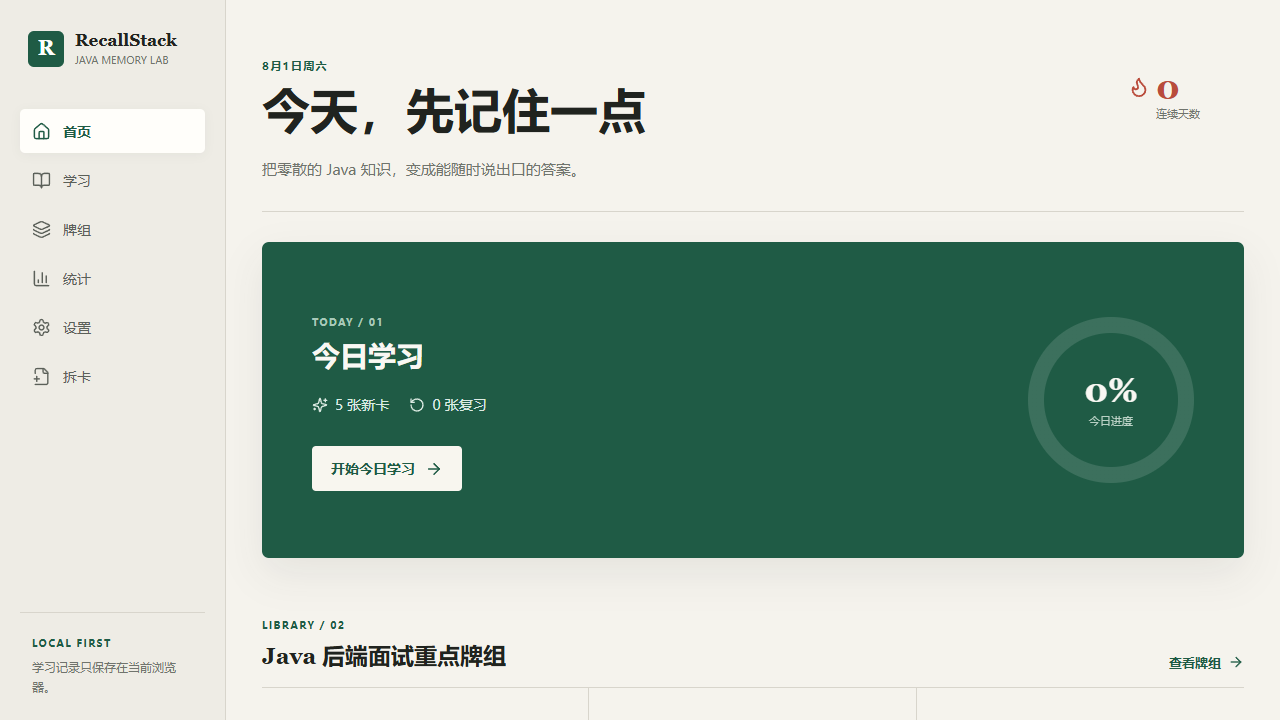
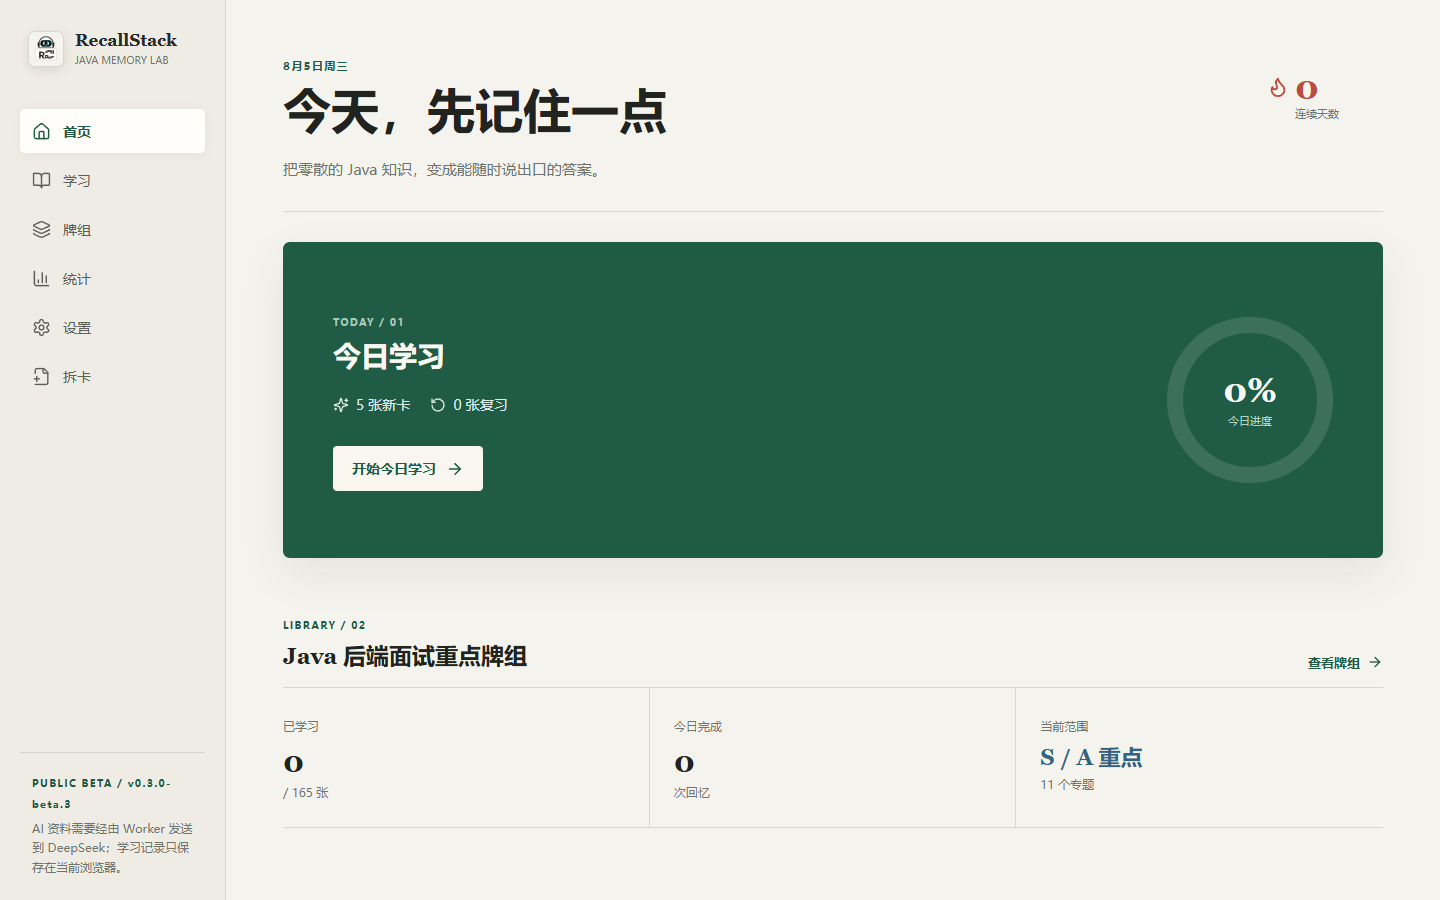
feat: release RecallStack v0.3 beta.3

diff --git a/src/styles.css b/src/styles.css
@@ -14,6 +14,10 @@
   --coral: #b94c3c;
   --amber: #b67a25;
   --blue: #32637f;
+  --charcoal: #252b2b;
+  --cyan: #18b3aa;
+  --cyan-soft: #e1f5f3;
+  --icon-surface: #f4f3ed;
   --shadow: 0 16px 40px rgba(34, 38, 33, 0.08);
 }
 
@@ -29,9 +33,10 @@ a { color: inherit; text-decoration: none; }
 .app-shell { min-height: 100vh; display: grid; grid-template-columns: 226px minmax(0, 1fr); }
 .side-rail { position: sticky; top: 0; height: 100vh; padding: 30px 20px 22px; border-right: 1px solid var(--line); display: flex; flex-direction: column; background: #eeece5; }
 .brand { display: flex; align-items: center; gap: 11px; margin: 0 8px 42px; }
-.brand-mark { width: 36px; height: 36px; display: grid; place-items: center; background: var(--green); color: white; border-radius: 6px; font: 700 21px/1 Georgia, serif; }
+.brand-mark { width: 36px; height: 36px; flex: 0 0 auto; display: grid; place-items: center; background: var(--icon-surface); border: 1px solid rgba(37,43,43,.14); border-radius: 7px; overflow: hidden; box-shadow: 0 3px 10px rgba(37,43,43,.12); }
+.brand-mark img { display: block; width: 100%; height: 100%; object-fit: cover; }
 .brand strong, .brand small { display: block; letter-spacing: 0; }
-.brand strong { font: 700 17px/1.2 Georgia, "Microsoft YaHei", serif; }
+.brand strong { color: var(--charcoal); font: 700 17px/1.2 Georgia, "Microsoft YaHei", serif; }
 .brand small { margin-top: 3px; color: var(--muted); font-size: 10px; text-transform: uppercase; }
 .side-nav { display: grid; gap: 5px; }
 .nav-item { height: 44px; padding: 0 12px; border-radius: 5px; color: #5b6059; display: flex; align-items: center; gap: 12px; font-size: 14px; transition: background 160ms ease, color 160ms ease; }
@@ -60,7 +65,7 @@ a { color: inherit; text-decoration: none; }
 .task-chips span { display: inline-flex; align-items: center; gap: 7px; color: #dcebe3; font-size: 14px; }
 .primary-command { width: fit-content; min-height: 45px; padding: 0 18px; display: inline-flex; align-items: center; justify-content: center; gap: 10px; border: 1px solid transparent; border-radius: 4px; background: #f8f6ef; color: var(--green); font-weight: 800; font-size: 14px; transition: transform 160ms ease, background 160ms ease; }
 .primary-command:hover { transform: translateY(-1px); background: white; }
-.primary-command:focus-visible, button:focus-visible, a:focus-visible, input:focus-visible { outline: 3px solid rgba(50,99,127,.3); outline-offset: 2px; }
+.primary-command:focus-visible, button:focus-visible, a:focus-visible, input:focus-visible, textarea:focus-visible { outline: 3px solid rgba(24,179,170,.35); outline-offset: 2px; }
 .done-message { display: flex; align-items: center; gap: 9px; color: #dcebe3; }
 .progress-dial { --progress: 0deg; width: 166px; aspect-ratio: 1; flex: 0 0 auto; border-radius: 50%; display: grid; place-items: center; background: conic-gradient(#d5a951 var(--progress), rgba(255,255,255,.13) 0); }
 .progress-dial::before { content: ""; grid-area: 1/1; width: 134px; aspect-ratio: 1; border-radius: 50%; background: var(--green); }
@@ -197,13 +202,13 @@ a { color: inherit; text-decoration: none; }
 .mode-switch button:last-child { border-right: 0; }
 .mode-switch button.active { background: var(--ink); color: var(--surface); }
 .mode-switch button:disabled { color: #a7aaa4; background: #ebe9e2; cursor: not-allowed; }
-.ai-consent-box { margin-top: 18px; padding: 18px 20px; border-left: 3px solid var(--blue); background: #eaf0f3; }
-.ai-consent-box strong { color: var(--blue); font-size: 13px; }
-.ai-consent-box p { margin: 7px 0 12px; color: #52656e; font-size: 12px; line-height: 1.7; }
+.ai-consent-box { margin-top: 18px; padding: 18px 20px; border-left: 3px solid var(--cyan); background: var(--cyan-soft); }
+.ai-consent-box strong { color: var(--charcoal); font-size: 13px; }
+.ai-consent-box p { margin: 7px 0 12px; color: #426563; font-size: 12px; line-height: 1.7; }
 .ai-consent-box .ai-limit-note { margin-top: 0; color: var(--amber); }
 .ai-consent-box label { display: flex; align-items: flex-start; gap: 9px; color: var(--ink); font-size: 12px; font-weight: 700; line-height: 1.5; cursor: pointer; }
 .ai-consent-box input { width: 16px; height: 16px; margin: 1px 0 0; accent-color: var(--green); }
-.provider-note { margin: 15px 0 0; color: var(--amber); font-size: 12px; font-weight: 700; }
+.provider-note { margin: 15px 0 0; color: var(--charcoal); font-size: 12px; font-weight: 700; }
 .material-input-label { display: block; margin: 24px 0 9px; color: var(--muted); font-size: 12px; font-weight: 700; }
 .import-composer > textarea { width: 100%; min-height: 230px; padding: 20px; resize: vertical; border: 1px solid var(--line); border-radius: 5px; background: var(--surface); color: var(--ink); line-height: 1.75; outline: none; }
 .import-composer > textarea:focus, .draft-card input:focus, .draft-card textarea:focus { border-color: var(--green); box-shadow: 0 0 0 3px rgba(31, 91, 69, .1); }
@@ -212,7 +217,7 @@ a { color: inherit; text-decoration: none; }
 .import-actions .save-button { margin-left: auto; }
 .import-actions .cancel-button { margin-left: auto; border-color: var(--coral); color: var(--coral); }
 .file-name { max-width: 220px; overflow: hidden; color: var(--muted); font-size: 11px; text-overflow: ellipsis; white-space: nowrap; }
-.generation-progress { margin: 0 0 16px; padding: 17px 18px; border: 1px solid var(--line); background: var(--surface); }
+.generation-progress { margin: 0 0 16px; padding: 17px 18px; border: 1px solid rgba(24,179,170,.38); background: var(--surface); }
 .progress-line { display: flex; justify-content: space-between; gap: 14px; color: var(--muted); font-size: 11px; }
 .generation-progress progress { width: 100%; height: 7px; margin: 12px 0 7px; accent-color: var(--green); }
 .current-chunk { display: block; color: var(--green); font-size: 11px; font-weight: 700; }

diff --git a/src/app/App.test.tsx b/src/app/App.test.tsx
@@ -46,6 +46,12 @@ describe('RecallStack app', () => {
     expect(await screen.findByText('5 张新卡')).toBeInTheDocument()
   })
 
+  it('shows the accessible RecallStack brand mark', async () => {
+    renderApp()
+
+    expect(await screen.findByRole('img', { name: 'RecallStack' })).toHaveAttribute('src', './recallstack-brand.svg')
+  })
+
   it('reveals the answer before accepting a rating', async () => {
     const user = userEvent.setup()
     renderApp('/study')

diff --git a/src/components/AppShell.tsx b/src/components/AppShell.tsx
@@ -16,7 +16,7 @@ export function AppShell() {
     <div className="app-shell">
       <aside className="side-rail">
         <NavLink className="brand" to="/" aria-label="RecallStack 首页">
-          <span className="brand-mark">R</span>
+          <span className="brand-mark"><img src="./recallstack-brand.svg" alt="RecallStack" /></span>
           <span>
             <strong>RecallStack</strong>
             <small>Java memory lab</small>

diff --git a/index.html b/index.html
@@ -5,6 +5,7 @@
     <meta name="viewport" content="width=device-width, initial-scale=1.0" />
     <meta name="theme-color" content="#f5f3ed" />
     <meta name="description" content="像背单词一样复习 Java 八股知识" />
+    <link rel="icon" type="image/svg+xml" href="./recallstack-brand.svg" />
     <link rel="icon" type="image/svg+xml" href="./icon.svg" />
     <title>RecallStack</title>
   </head>

diff --git a/vite.config.ts b/vite.config.ts
@@ -17,6 +17,7 @@ export default defineConfig({
         display: 'standalone',
         start_url: '.',
         icons: [
+          { src: 'recallstack-brand.svg', sizes: '192x192', type: 'image/svg+xml', purpose: 'any maskable' },
           { src: 'icon.svg', sizes: 'any', type: 'image/svg+xml' }
         ]
       }

diff --git a/src/app/release.ts b/src/app/release.ts
@@ -1,4 +1,4 @@
-export const APP_VERSION = 'v0.3.0-beta.2'
+export const APP_VERSION = 'v0.3.0-beta.3'
 export const AI_MODEL = 'deepseek-v4-flash'
 export const AI_MODEL_LABEL = 'DeepSeek V4 Flash'
 export const AI_CONSENT_VERSION = 'v0.3-deepseek'

diff --git a/docs/superpowers/plans/2026-08-05-brand-unification.md b/docs/superpowers/plans/2026-08-05-brand-unification.md
@@ -1,0 +1,67 @@
+# RecallStack Brand Unification Implementation Plan
+
+> **For agentic workers:** REQUIRED SUB-SKILL: Use superpowers:executing-plans to implement this plan task-by-task with review checkpoints.
+
+**Goal:** Apply the selected calm-study visual direction to RecallStack without changing product behavior.
+
+**Architecture:** Keep the existing React and CSS structure. Add one repository-local icon asset, update the existing design tokens and brand shell, then validate the generated manifest and responsive layout through the existing test and build commands.
+
+**Tech Stack:** React, TypeScript, Vite, vite-plugin-pwa, CSS custom properties, Vitest, Playwright.
+
+---
+
+### Task 1: Add the supplied brand asset
+
+**Files:**
+- Create: `public/recallstack-brand.svg` as a repository-local, deterministic reproduction of the user-supplied optimized icon.
+- Keep: `public/icon.svg` as the SVG fallback until the raster asset is verified in the build.
+
+- [ ] Verify the SVG is present and parses as an XML image resource with `Get-Item public/recallstack-brand.svg`.
+
+### Task 2: Update brand metadata and shell markup
+
+**Files:**
+- Modify: `src/components/AppShell.tsx`
+- Modify: `index.html`
+- Modify: `vite.config.ts`
+
+- [ ] Replace the text-only `.brand-mark` content with an image using `src="./recallstack-brand.svg"`, `alt="RecallStack"`, and a stable 36px box.
+- [ ] Keep the existing brand name and navigation labels unchanged.
+- [ ] Add the new SVG favicon before the existing SVG fallback in `index.html`.
+- [ ] Add a 192px SVG manifest icon while retaining the existing SVG `any` icon fallback.
+- [ ] Set the browser theme color to the existing paper token so installable surfaces remain consistent.
+
+### Task 3: Extend the existing design tokens
+
+**Files:**
+- Modify: `src/styles.css`
+
+- [ ] Add tokens for `--charcoal`, `--cyan`, `--cyan-soft`, and `--icon-surface` next to the current palette.
+- [ ] Style `.brand-mark` as an image container with `object-fit: cover`, no text fallback dependency, and a small radius matching the supplied icon tile.
+- [ ] Add `.ai-consent-box`, `.provider-note`, `.generation-progress`, and visible focus states to use cyan only for AI/brand emphasis where existing selectors currently use blue or generic green.
+- [ ] Preserve green as the primary command, active navigation, progress, and learned-state color.
+- [ ] Preserve current mobile bottom navigation height and safe-area padding while increasing active-state contrast with the new charcoal/cyan roles.
+- [ ] Add a `@media (max-width: 560px)` rule if needed so the 36px mark and RecallStack text do not clip in the compact shell.
+
+### Task 4: Add focused regression coverage
+
+**Files:**
+- Modify: `src/app/App.test.tsx`
+- Modify: `src/components/AppShell.tsx` only if a testable accessible label is needed.
+
+- [ ] Add a test that renders the shell and asserts the brand image has `alt="RecallStack"` and the expected `src`.
+- [ ] Add a test that asserts the primary study action keeps its existing class and navigation target.
+- [ ] Run the focused test and verify the new assertions fail before implementation, then pass after implementation.
+
+### Task 5: Verify desktop, mobile, and build output
+
+**Files:**
+- No source changes expected.
+
+- [ ] Run `npm test src/app/App.test.tsx`.
+- [ ] Run `npm run lint`.
+- [ ] Run `npm run build`.
+- [ ] Run `npm run test:e2e`.
+- [ ] Run `git diff --check`.
+- [ ] Inspect the built `dist/manifest.webmanifest` and confirm it references the raster and SVG brand icons.
+- [ ] Check the app at desktop and mobile widths for clipped text, broken contrast, or icon overlap.

diff --git a/docs/superpowers/specs/2026-08-05-brand-unification-design.md b/docs/superpowers/specs/2026-08-05-brand-unification-design.md
@@ -1,0 +1,31 @@
+# RecallStack Brand Unification Design
+
+## Goal
+
+Align the product UI with the optimized RecallStack robot icon while preserving the existing calm, tool-oriented study experience.
+
+## Visual Direction
+
+Use the selected A direction, "calm study desk": warm paper backgrounds and ink-green learning actions remain primary. The robot icon contributes charcoal, soft cyan, and off-white accents as restrained brand signals. Java red remains reserved for importance and attention states.
+
+## Scope
+
+- Replace the existing text-only brand mark with the supplied robot icon in the sidebar and PWA metadata.
+- Add semantic CSS tokens for charcoal, cyan, cyan-soft, and icon-surface roles.
+- Use cyan for AI provider/status accents, focus treatment, and brand details without changing task semantics.
+- Keep green for primary study actions, progress, learned states, and active navigation.
+- Keep Java red and amber for existing importance and warning meanings.
+- Improve mobile bottom navigation and compact controls only where the new mark or tokens need it.
+- Do not change routes, repository behavior, FSRS scheduling, card content, or Worker behavior.
+
+## Asset Handling
+
+The provided optimized icon is the visual source of truth. Store a repository-local SVG reproduction for the sidebar and installable PWA so the mark is deterministic, small, and legible at small sizes. Keep the existing SVG fallback available for older references and give the brand image an accessible text label.
+
+## Acceptance Criteria
+
+- The new robot mark appears in the sidebar, browser icon, and PWA manifest.
+- Existing green primary actions and card importance meanings remain unchanged.
+- AI surfaces have a recognizable cyan brand accent without a full palette rewrite.
+- Desktop and mobile layouts have no overlap or clipped brand text.
+- Existing unit, build, lint, and E2E behavior remains green.
